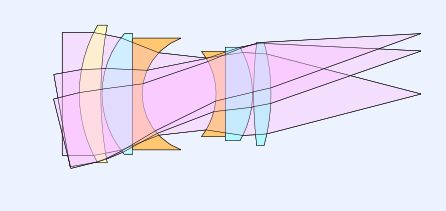
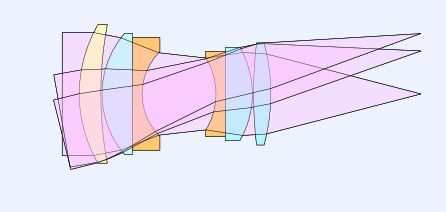
update changelog and DBGauss image for doc

diff --git a/CHANGELOG.rst b/CHANGELOG.rst
@@ -2,6 +2,11 @@
 Changelog
 =========
 
+Version 0.3.5
+=============
+
+Update aperture import and layout rendering for y-z plane tilts and decenters
+
 Version 0.3.0
 =============
 
